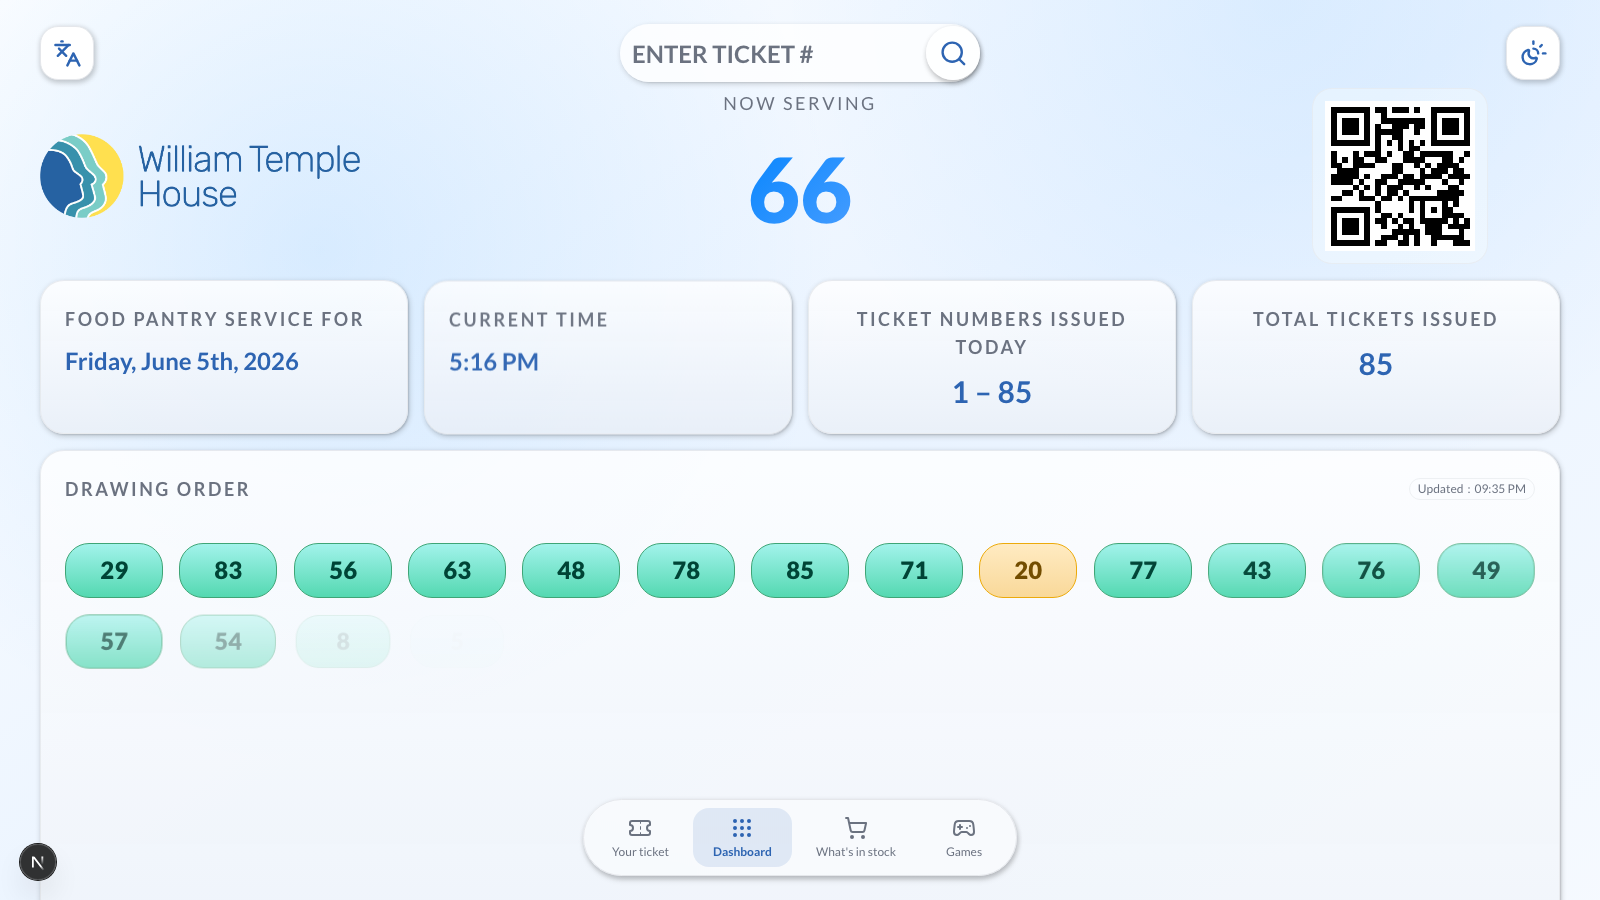
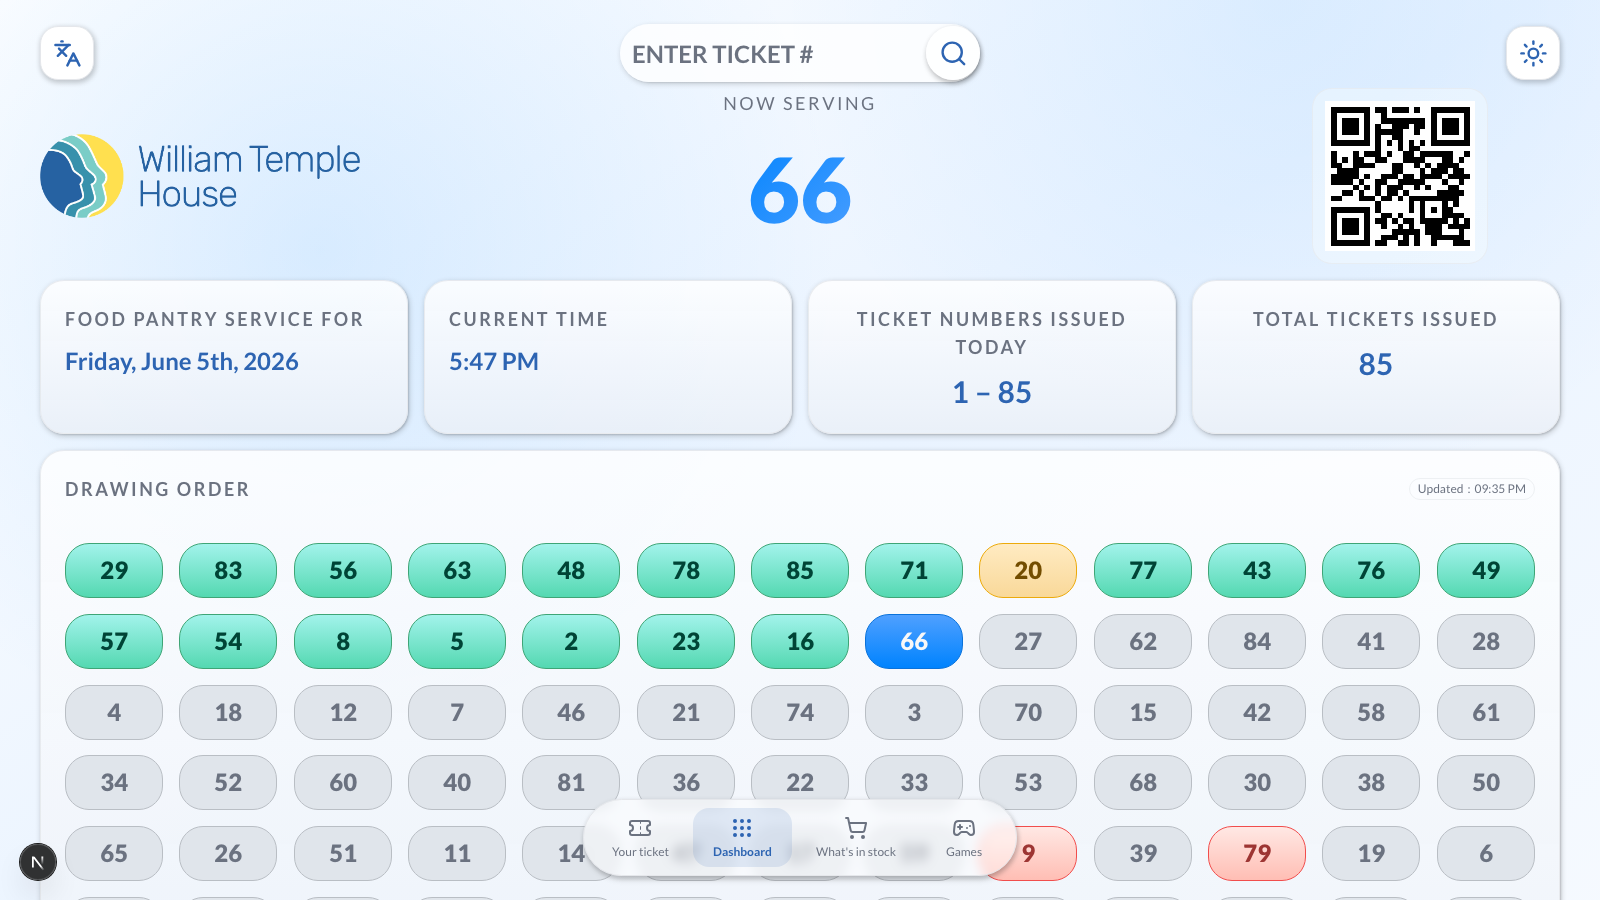
Add dark-mode and localized screenshots + npm run screenshots generator
Add a reproducible screenshot script (scripts/screenshots.mjs, npm run
screenshots) driving installed Chrome via puppeteer-core. It pins theme and
language per shot using the app's own storage keys, so it captures dark-mode and
localized (Chinese, Russian, Arabic/RTL) display boards alongside the light set.
README screenshots section gains Dark mode and Localization subsections.

diff --git a/CHANGELOG.md b/CHANGELOG.md
@@ -3,11 +3,16 @@
 ## [Unreleased]
 ### Added
 - **Polished, promotion-ready README** with app screenshots
-  (`docs/screenshots/`), a feature/audience overview, quickstart, tech stack, and
-  license summary — modeled on the FEED project. The previous operational runbook
-  (env vars, Vercel + Neon production setup, standalone read-only board,
-  persistence) moved to [`docs/DEPLOYMENT.md`](docs/DEPLOYMENT.md). GitHub repo
-  description and topics were also set.
+  (`docs/screenshots/`) — including **dark mode** and **localized** boards
+  (Chinese, Russian, Arabic/RTL) — a feature/audience overview, quickstart, tech
+  stack, and license summary, modeled on the FEED project. The previous
+  operational runbook (env vars, Vercel + Neon production setup, standalone
+  read-only board, persistence) moved to [`docs/DEPLOYMENT.md`](docs/DEPLOYMENT.md).
+  GitHub repo description and topics were also set.
+- **`npm run screenshots`** — a reproducible screenshot generator
+  (`scripts/screenshots.mjs`) that drives the installed Chrome via `puppeteer-core`
+  (dev dependency, no bundled browser) to capture each surface at a pinned theme
+  and language.
 
 ### Changed
 - **License: relicensed from MIT to AGPL-3.0-or-later**, matching the FEED

diff --git a/README.md b/README.md
@@ -91,6 +91,27 @@ color-coded drawing-order grid, ticket search, and a QR code to their phone.
 
 ![Arcade index](./docs/screenshots/arcade.png)
 
+### Dark mode
+
+Light, dark, and a flat high-visibility theme are all supported. The board and
+staff dashboard in dark:
+
+| Display board | Staff dashboard |
+|---|---|
+| ![Display board, dark mode](./docs/screenshots/display-board-dark.png) | ![Staff landing, dark mode](./docs/screenshots/staff-dark.png) |
+
+### Localization
+
+The same display board in Chinese, Russian, and Arabic — note the right-to-left
+layout for Arabic (and Persian), with ticket numbers kept in their natural order:
+
+| 中文 (Chinese) | Русский (Russian) | العربية (Arabic, RTL) |
+|---|---|---|
+| ![Display board in Chinese](./docs/screenshots/display-board-zh.png) | ![Display board in Russian](./docs/screenshots/display-board-ru.png) | ![Display board in Arabic](./docs/screenshots/display-board-ar.png) |
+
+> Regenerate all screenshots with `npm run screenshots` while the app is running
+> (drives your installed Chrome via `puppeteer-core`).
+
 ---
 
 ## Quickstart (development)
